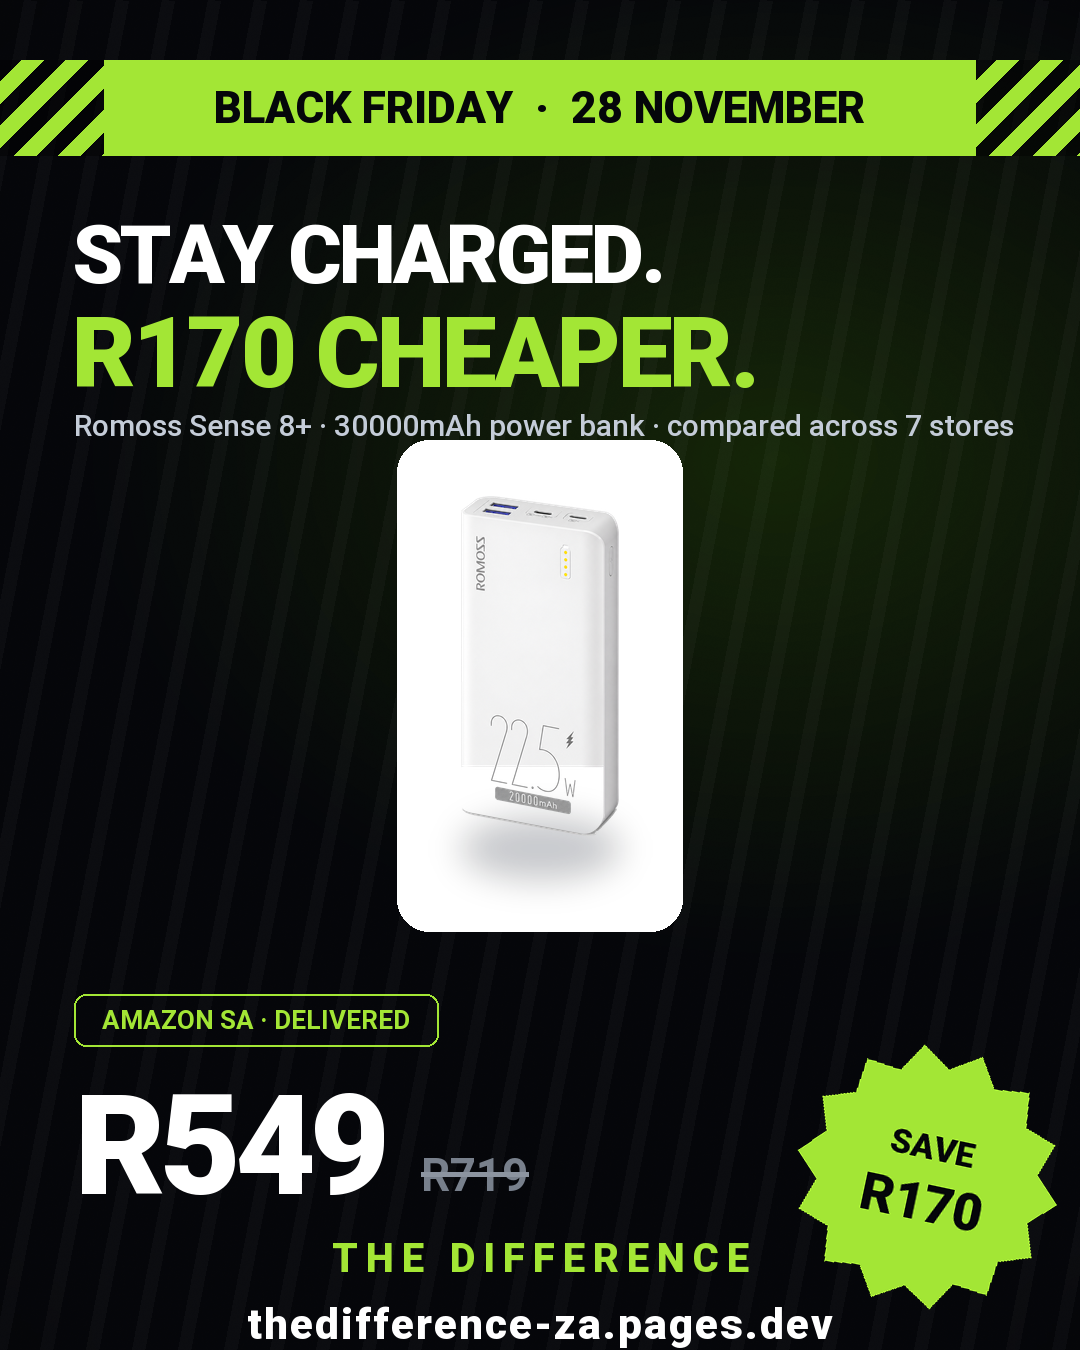
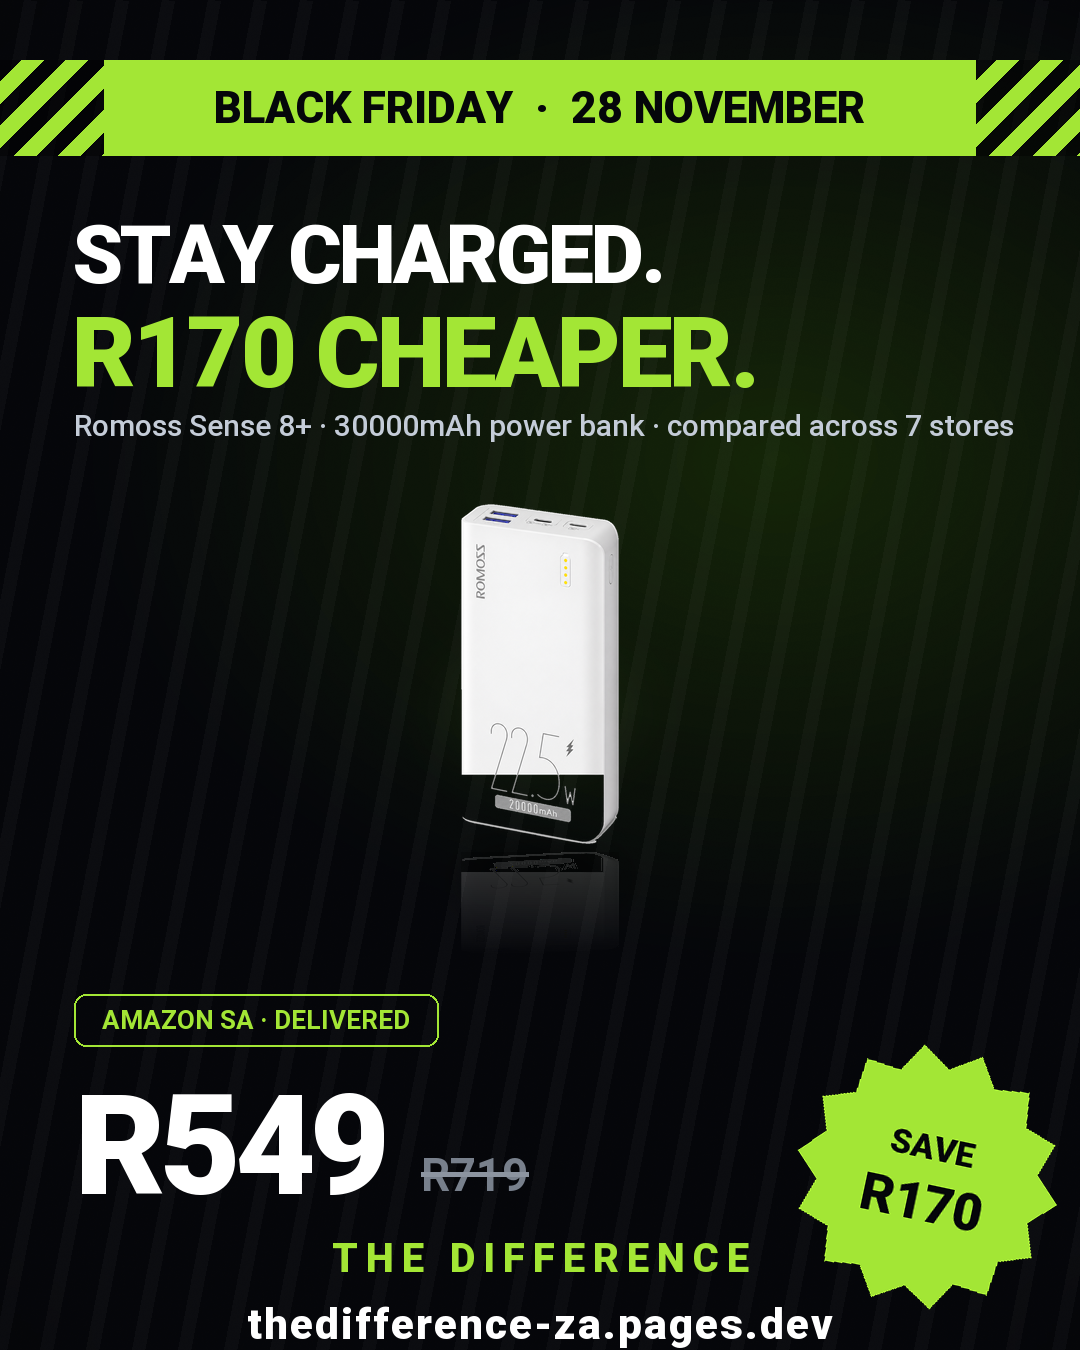
promo: true background-removal cleanup — zero ultra-faint halo pixels, un-blend white from edge colours; products back on the dark stage

Changed region(s): [[0.3667, 0.3111, 0.6417, 0.7156]]

diff --git a/scripts/make_bf_posters.py b/scripts/make_bf_posters.py
@@ -13,6 +13,7 @@ Design system — modern Black Friday retail creative:
 import os
 import random
 import math
+import numpy as np
 from PIL import Image, ImageDraw, ImageFont, ImageFilter
 
 ROOT = os.path.dirname(os.path.dirname(os.path.abspath(__file__)))
@@ -139,36 +140,59 @@ def starburst(save="SAVE\nR4 095", size=340):
     return img.rotate(-12, expand=True, resample=Image.BICUBIC)
 
 
-def product_hero(path, max_w, max_h):
-    """Packshot on a white product card, the retail-ad treatment.
+def defringe(im):
+    """Proper background-removal cleanup for dark posters.
 
-    The packshots carry a soft white cut-out fringe that is invisible on a
-    white card (but glows on dark stages), so every product sits on a white
-    rounded card with a soft floor shadow inside it.
+    The packshots were cut out on white, so edge pixels are blended toward
+    white and carry a faint halo (alpha 1-31). Interior pixels are fully
+    opaque. Fix without touching the product:
+    - zero only the ultra-faint halo pixels (alpha <= 40)
+    - un-blend the white contamination from the anti-aliased edge colours
     """
-    im = Image.open(path).convert("RGBA")
+    arr = np.asarray(im).astype(np.float32)
+    rgb, a = arr[..., :3], arr[..., 3:] / 255.0
+    un = (rgb - (1.0 - a) * 255.0) / np.clip(a, 0.05, 1.0)
+    arr[..., :3] = np.where(a > 0.15, np.clip(un, 0, 255), rgb)
+    arr[..., 3:] = np.where(arr[..., 3:] <= 40, 0, arr[..., 3:])
+    return Image.fromarray(arr.astype(np.uint8), "RGBA")
+
+
+def product_hero(path, max_w, max_h):
+    """Packshot with acid glow, floor shadow and reflection on the dark stage."""
+    im = defringe(Image.open(path).convert("RGBA"))
     bbox = im.getbbox()
     if bbox:
         im = im.crop(bbox)
     im.thumbnail((max_w, max_h), Image.LANCZOS)
     w, h = im.size
 
-    pad_x, pad_t, pad_b = 64, 56, 96
-    card = Image.new("RGBA", (w + 2 * pad_x, h + pad_t + pad_b), (0, 0, 0, 0))
-    cd = ImageDraw.Draw(card)
-    cd.rounded_rectangle((0, 0, card.width - 1, card.height - 1), radius=32, fill=(255, 255, 255, 255))
+    stage = Image.new("RGBA", (w + 160, h + 200), (0, 0, 0, 0))
 
-    inner_shadow = Image.new("RGBA", card.size, (0, 0, 0, 0))
-    sd = ImageDraw.Draw(inner_shadow)
-    sd.ellipse((card.width / 2 - w / 2, pad_t + h - 18, card.width / 2 + w / 2, pad_t + h + 42), fill=(15, 23, 42, 60))
-    inner_shadow = inner_shadow.filter(ImageFilter.GaussianBlur(16))
-    mask = Image.new("L", card.size, 0)
-    md = ImageDraw.Draw(mask)
-    md.rounded_rectangle((0, 0, card.width - 1, card.height - 1), radius=32, fill=255)
-    card = Image.composite(Image.alpha_composite(card, inner_shadow), card, mask)
+    glow = Image.new("RGBA", stage.size, (0, 0, 0, 0))
+    gd = ImageDraw.Draw(glow)
+    for r in range(int(min(w, h) * 0.85), 0, -10):
+        a_ = int(90 * (1 - r / (min(w, h) * 0.85)))
+        gd.ellipse((stage.width / 2 - r, stage.height / 2 - r * 0.6, stage.width / 2 + r, stage.height / 2 + r * 0.6), fill=(90, 140, 40, a_))
+    glow = glow.filter(ImageFilter.GaussianBlur(40))
+    stage = Image.alpha_composite(stage, glow)
 
-    card.alpha_composite(im, ((card.width - w) // 2, pad_t))
-    return card
+    px, py = (stage.width - w) // 2, (stage.height - h) // 2 - 36
+    stage.alpha_composite(im, (px, py))
+
+    shadow = Image.new("RGBA", stage.size, (0, 0, 0, 0))
+    sd = ImageDraw.Draw(shadow)
+    sd.ellipse((stage.width / 2 - w / 2, py + h + 6, stage.width / 2 + w / 2, py + h + 64), fill=(0, 0, 0, 140))
+    shadow = shadow.filter(ImageFilter.GaussianBlur(18))
+    stage = Image.alpha_composite(shadow, stage)
+
+    refl = im.transpose(Image.FLIP_TOP_BOTTOM).resize((w, int(h * 0.30)))
+    fade = Image.new("L", refl.size, 0)
+    fd = ImageDraw.Draw(fade)
+    for i in range(refl.size[1]):
+        fd.line([(0, i), (refl.size[0], i)], fill=int(52 * (1 - i / refl.size[1])))
+    refl.putalpha(fade)
+    stage.alpha_composite(refl, (px, py + h + 8))
+    return stage
 
 
 def footer(draw, y=1226):
